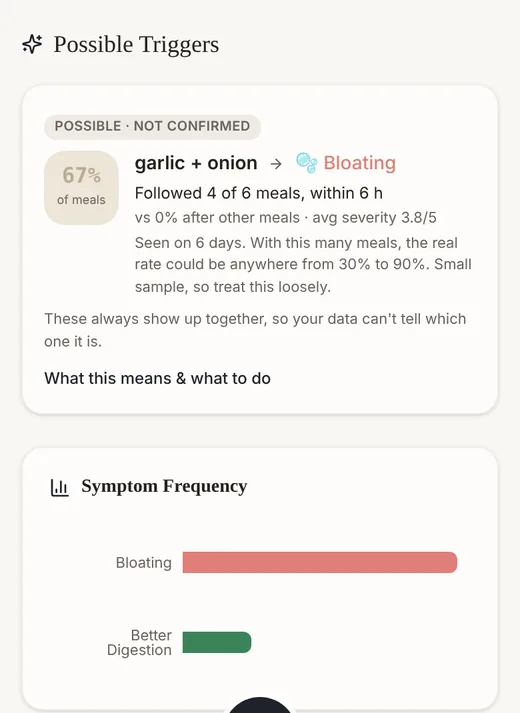
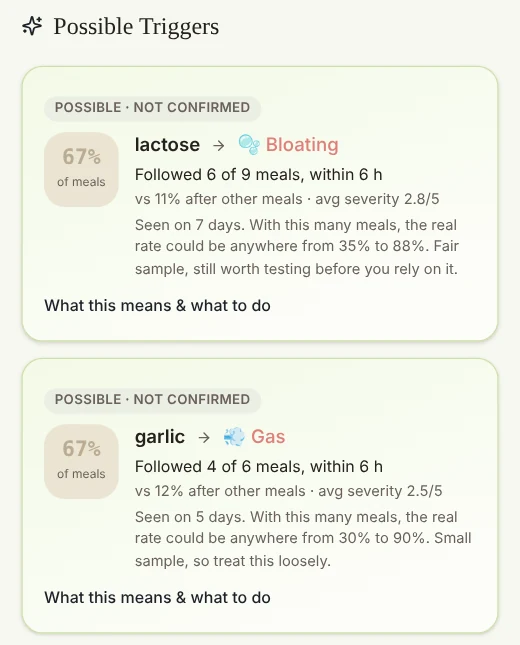
Refresh sign-up and landing screenshots to the new lime theme
Claude-Session: https://claude.ai/code/session_01KXyvZ2GsDTo13FrmtB1u6Z

diff --git a/server/seo/routes.ts b/server/seo/routes.ts
@@ -27,9 +27,9 @@ export function landingPage(): string {
 
 <section class="wide">
 <div class="shots">
-<figure><img src="/landing/scan.webp" width="520" height="959" loading="lazy" alt="Scanning a meal photo in Triggerplate to list foods and possible hidden ingredients"><figcaption>Snap a meal, confirm what you ate</figcaption></figure>
+<figure><img src="/landing/scan.webp" width="520" height="815" loading="lazy" alt="Scanning a meal photo in Triggerplate to list foods and possible hidden ingredients"><figcaption>Snap a meal, confirm what you ate</figcaption></figure>
 <figure><img src="/landing/today.webp" width="520" height="920" loading="lazy" alt="Triggerplate Today view showing meals, symptoms, protein and water"><figcaption>See your day, and a 7-day score based on your symptoms</figcaption></figure>
-<figure><img src="/landing/triggers.webp" width="520" height="713" loading="lazy" alt="Triggerplate list of possible food triggers with sample-size notes"><figcaption>Possible triggers, with the uncertainty shown</figcaption></figure>
+<figure><img src="/landing/triggers.webp" width="520" height="645" loading="lazy" alt="Triggerplate list of possible food triggers with sample-size notes"><figcaption>Possible triggers, with the uncertainty shown</figcaption></figure>
 </div>
 <p class="note" style="text-align:center">Screenshots show sample data.</p>
 </section>

diff --git a/PROJECT_MEMORY.md b/PROJECT_MEMORY.md
@@ -215,3 +215,4 @@ This file is the durable context for future Cursor chats in this workspace.
 ## Dark theme (Nov 23)
 - `.dark` token block in `client/src/index.css` (deep olive-charcoal; primary/volt flip to lime with dark text; `--action` light lime). ThemeContext now has preference light/dark/system (localStorage `theme`, default system), early inline script in `client/index.html` prevents flash, Appearance card in Profile. Sage/sand/warm-white and TONE inks are CSS vars (`--ink-*`) with dark values; chart strokes use `var(--chart-1)`/`var(--border)`. Hardcoded `bg-white` replaced with `bg-card`. Gotcha: anything using `bg-primary` + a volt icon needs explicit colors (primary is lime in dark).
 - Dark: coral/sand/amber/red shades are CSS vars with dark overrides in .dark (fixes sensitivity badges, alert boxes, warning notes).
+- Landing/sign-up screenshots (client/public/landing/{scan,today,triggers,weight}.webp) regenerated Nov 25 in the lime theme (light) with sample user Sam; harness in /home/claude/work/land_shots.py. Regenerate after big visual changes.
